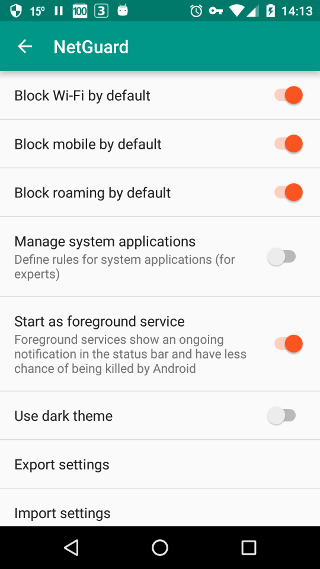
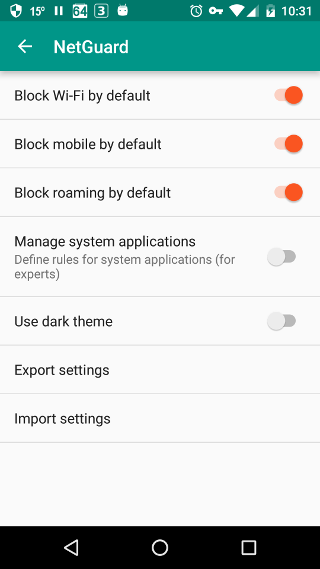
Removed VPN settings from production builds

diff --git a/app/src/main/java/eu/faircode/netguard/ActivitySettings.java b/app/src/main/java/eu/faircode/netguard/ActivitySettings.java
@@ -92,8 +92,11 @@ public class ActivitySettings extends AppCompatActivity implements SharedPrefere
         });
 
         Preference pref_vpn = screen.findPreference("vpn");
-        pref_vpn.setEnabled(INTENT_VPN_SETTINGS.resolveActivity(this.getPackageManager()) != null);
-        pref_vpn.setIntent(INTENT_VPN_SETTINGS);
+        if (Util.isDebuggable(this)) {
+            pref_vpn.setEnabled(INTENT_VPN_SETTINGS.resolveActivity(this.getPackageManager()) != null);
+            pref_vpn.setIntent(INTENT_VPN_SETTINGS);
+        } else
+            screen.removePreference(pref_vpn);
 
         PreferenceManager.getDefaultSharedPreferences(this).registerOnSharedPreferenceChangeListener(this);
     }

diff --git a/README.md b/README.md
@@ -161,14 +161,6 @@ to apply the rules with the conditions '*Allow when device is in use*' and '*Blo
 If disabling NetGuard is allowed to Tasker, any application can disabled NetGuard too.
 Allowing to disable a security application from other applications is not a good idea.
 
-<a name="FAQ11"></a>
-**(11) What's the point of _Open Android VPN settings_?**
-
-It is there to give the user an option to revoke VPN permission from NetGuard, by tapping the settings icon left to revoke.
-Although on some devices / ROMs (eg. Samsung Galaxy A5 5.0.2 or Sony Xperia 5.1.1)
-the software manufacturer did not provide a way to interact with the created VPN connection
-since it is not actually shown there (but manually added VPN connections are) and hence you can't revoke its permissions if you wish so.
-
 <a name="FAQ12"></a>
 **(12) Can you add on demand asking to block/allow access?**
 
